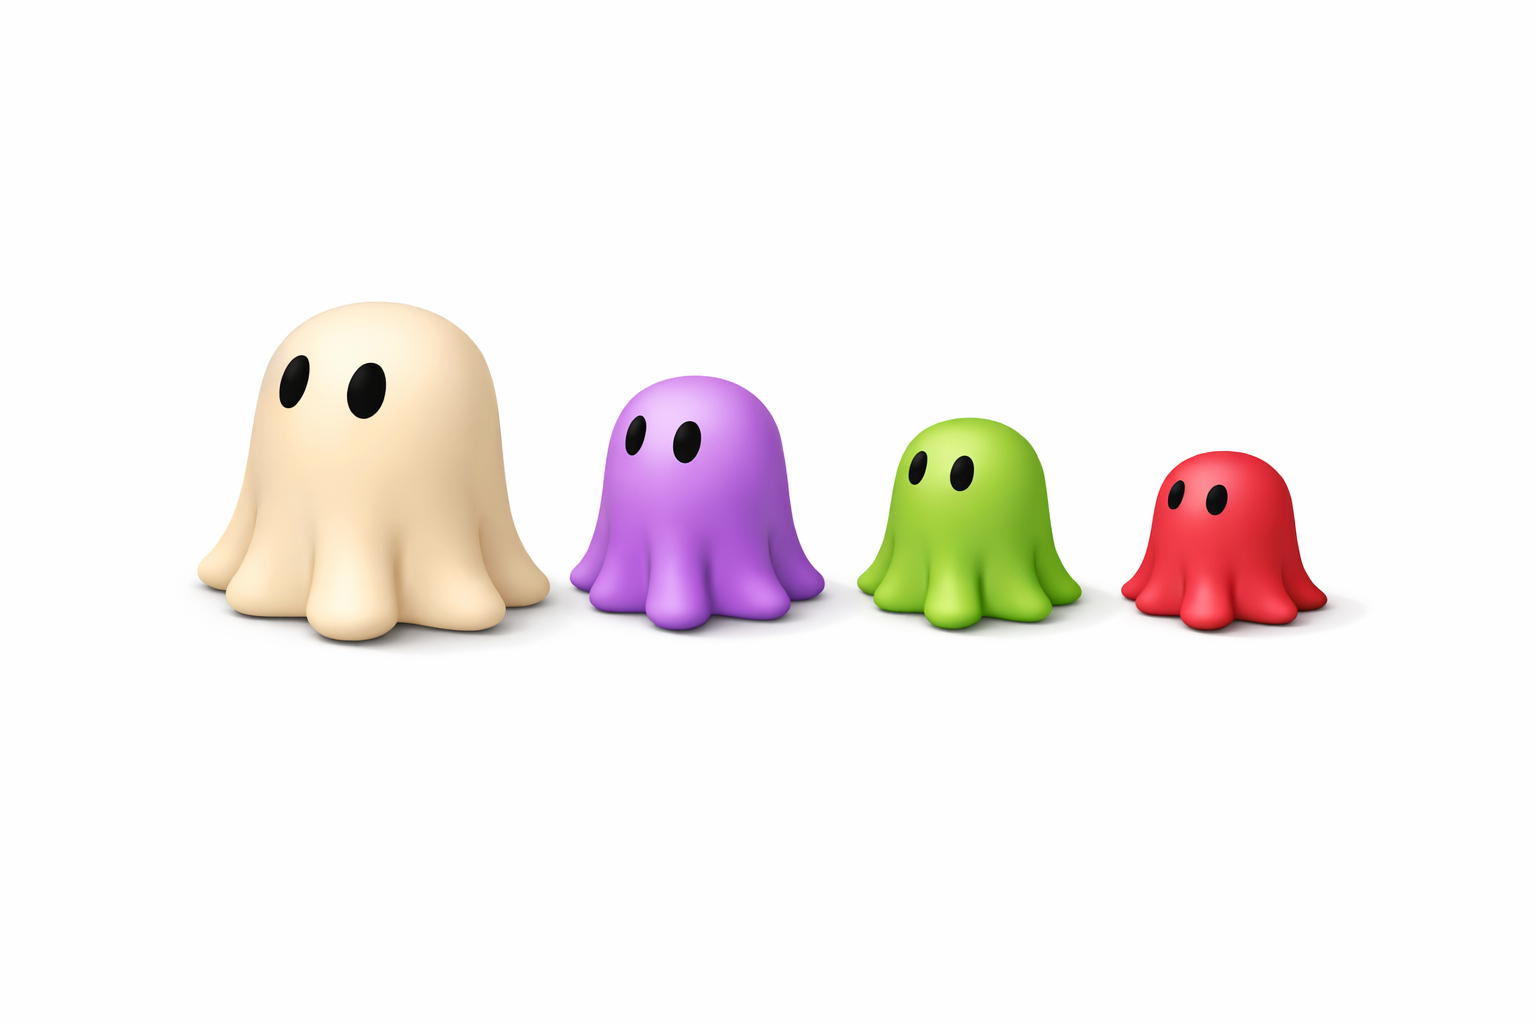
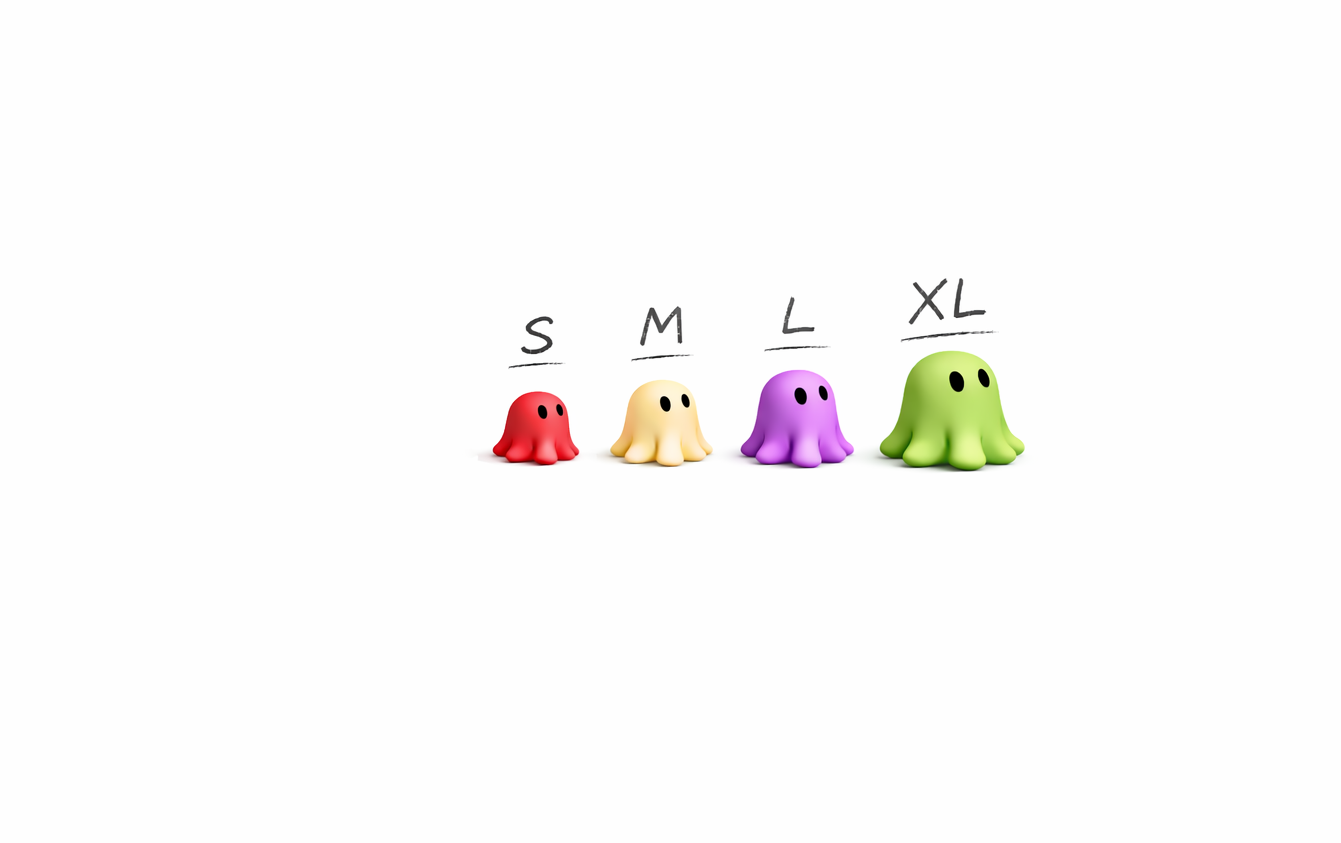
TK.img06 - new hero slides & fix

Changed region(s): [[0.1223, 0.2776, 0.8867, 0.6477]]

diff --git a/src/components/Portfolio.tsx b/src/components/Portfolio.tsx
@@ -103,7 +103,7 @@ const SECTIONS: PortfolioSection[] = [
     {
         id: "siti",
         title: "Siti Web",
-        num: "06",
+        num: "07",
         accent: "blue",
         body: [
             "Ogni scelta è orientata a chiarezza, usabilità e integrazione con altri sistemi aziendali.",
